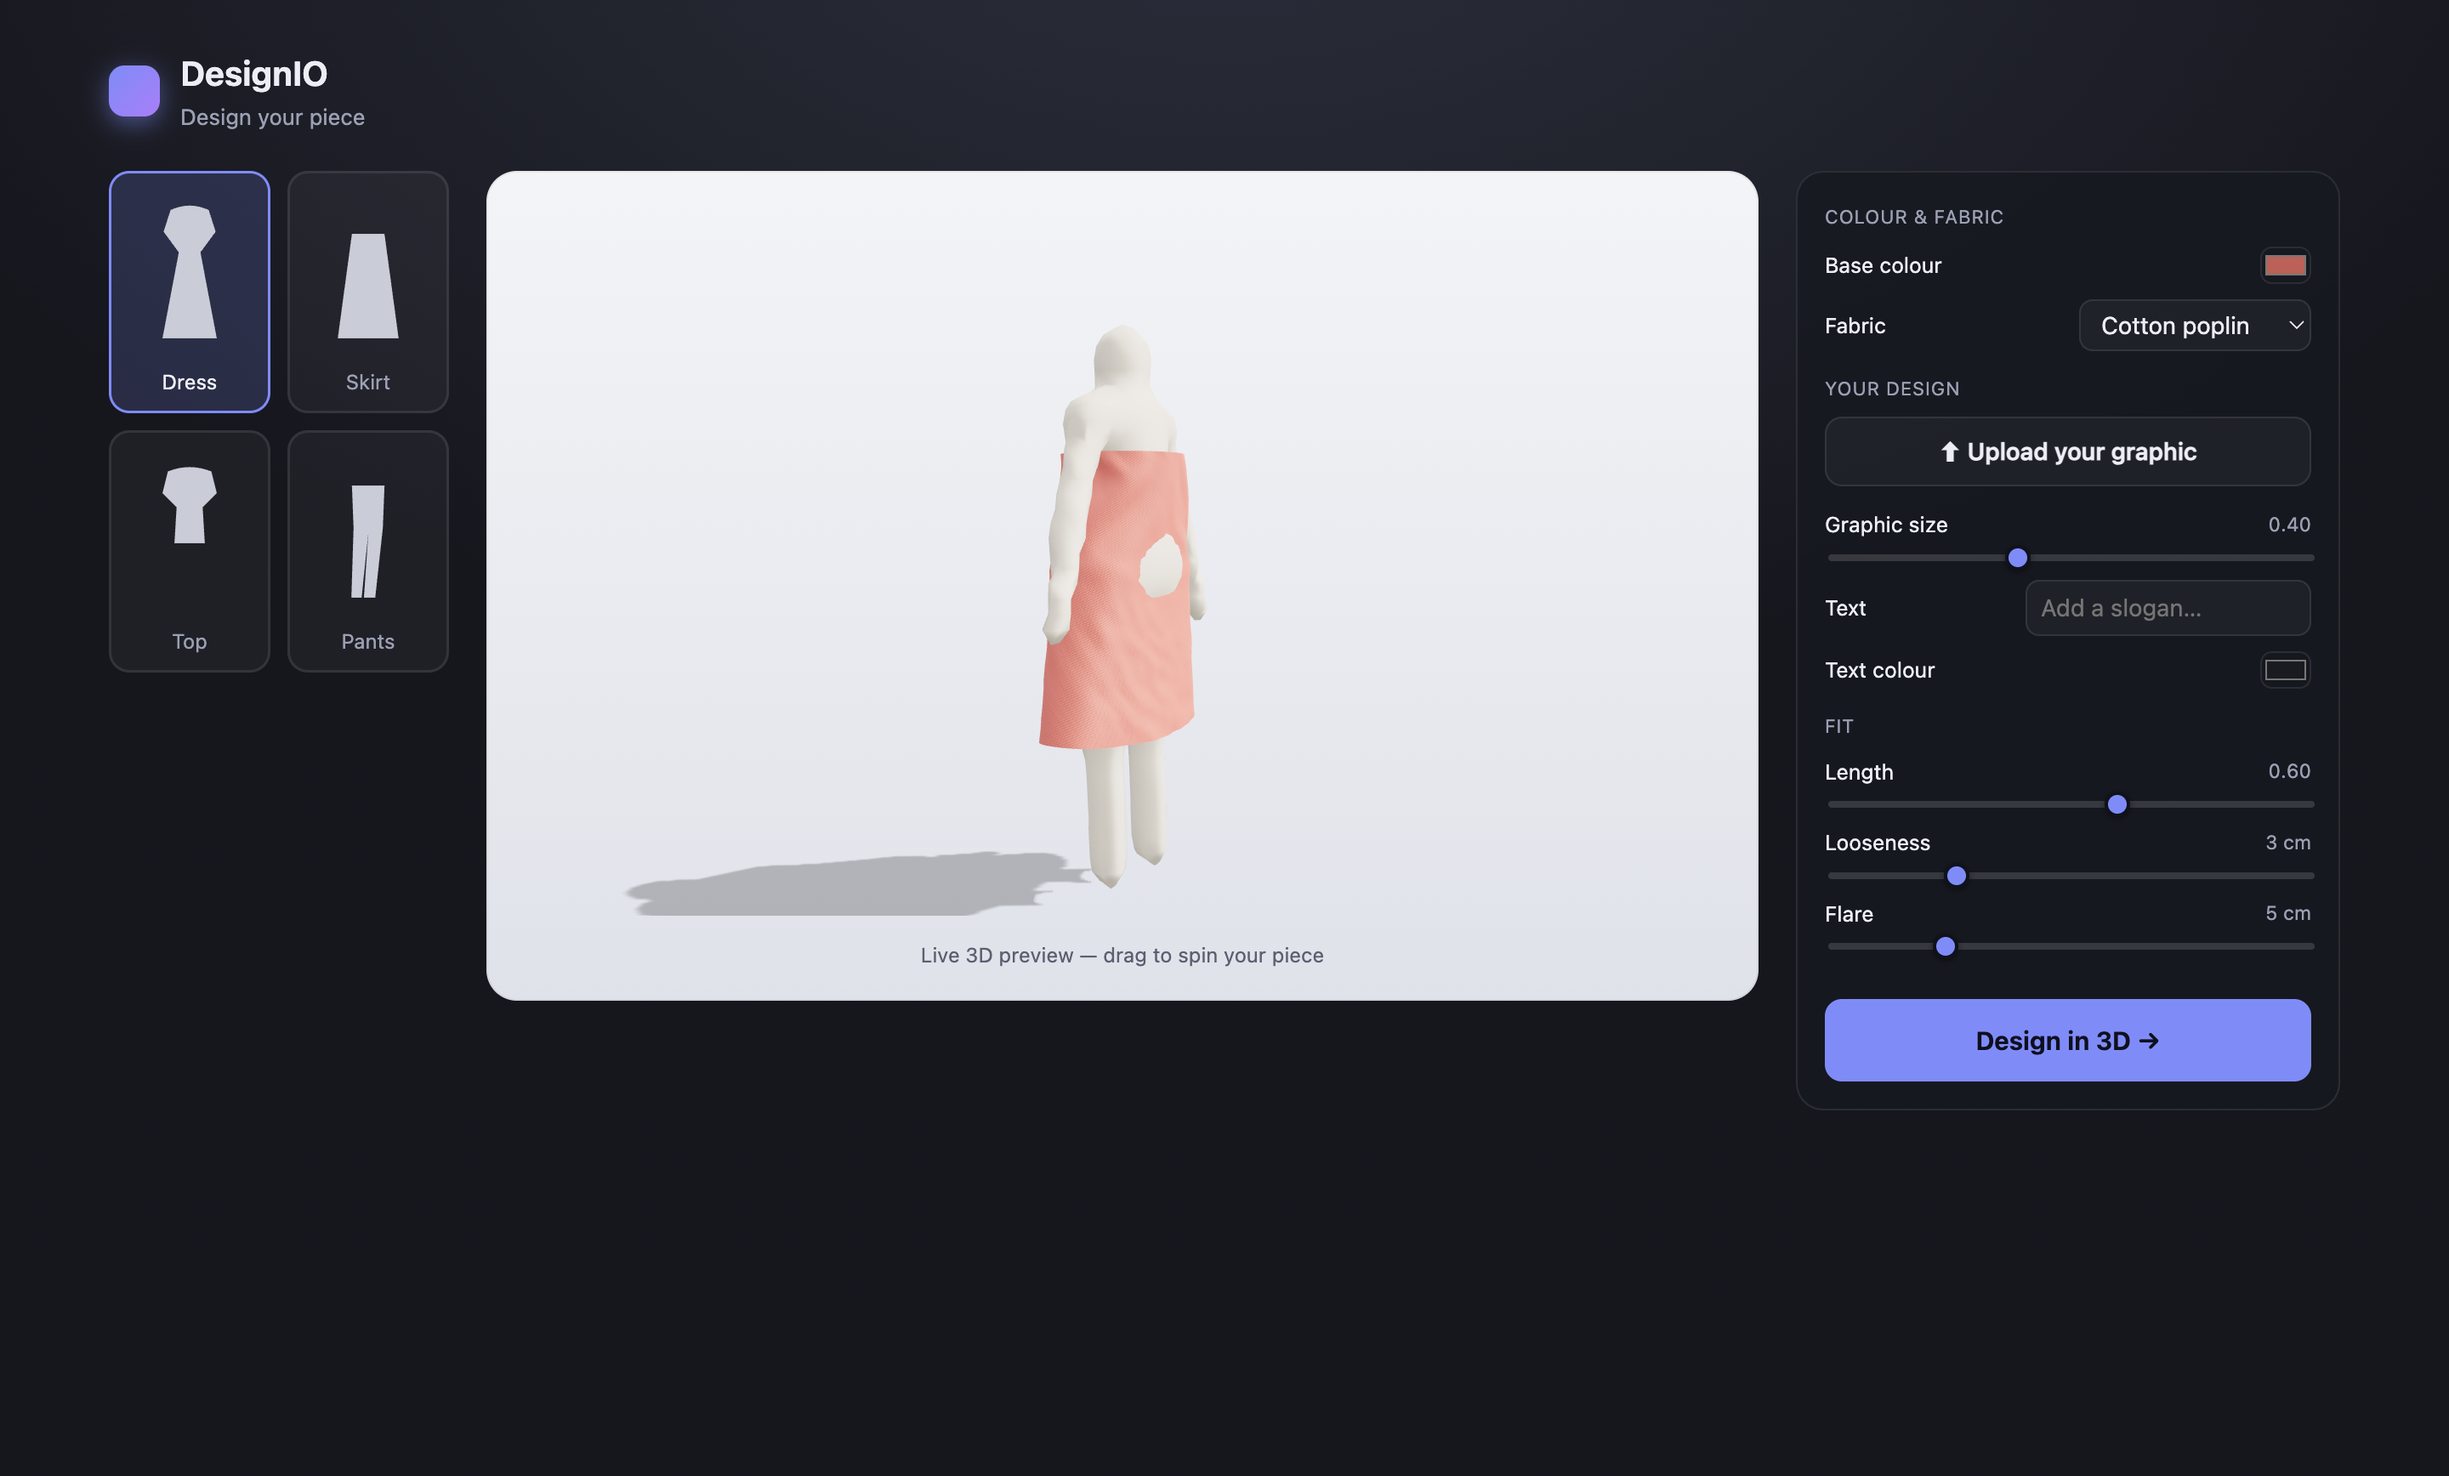
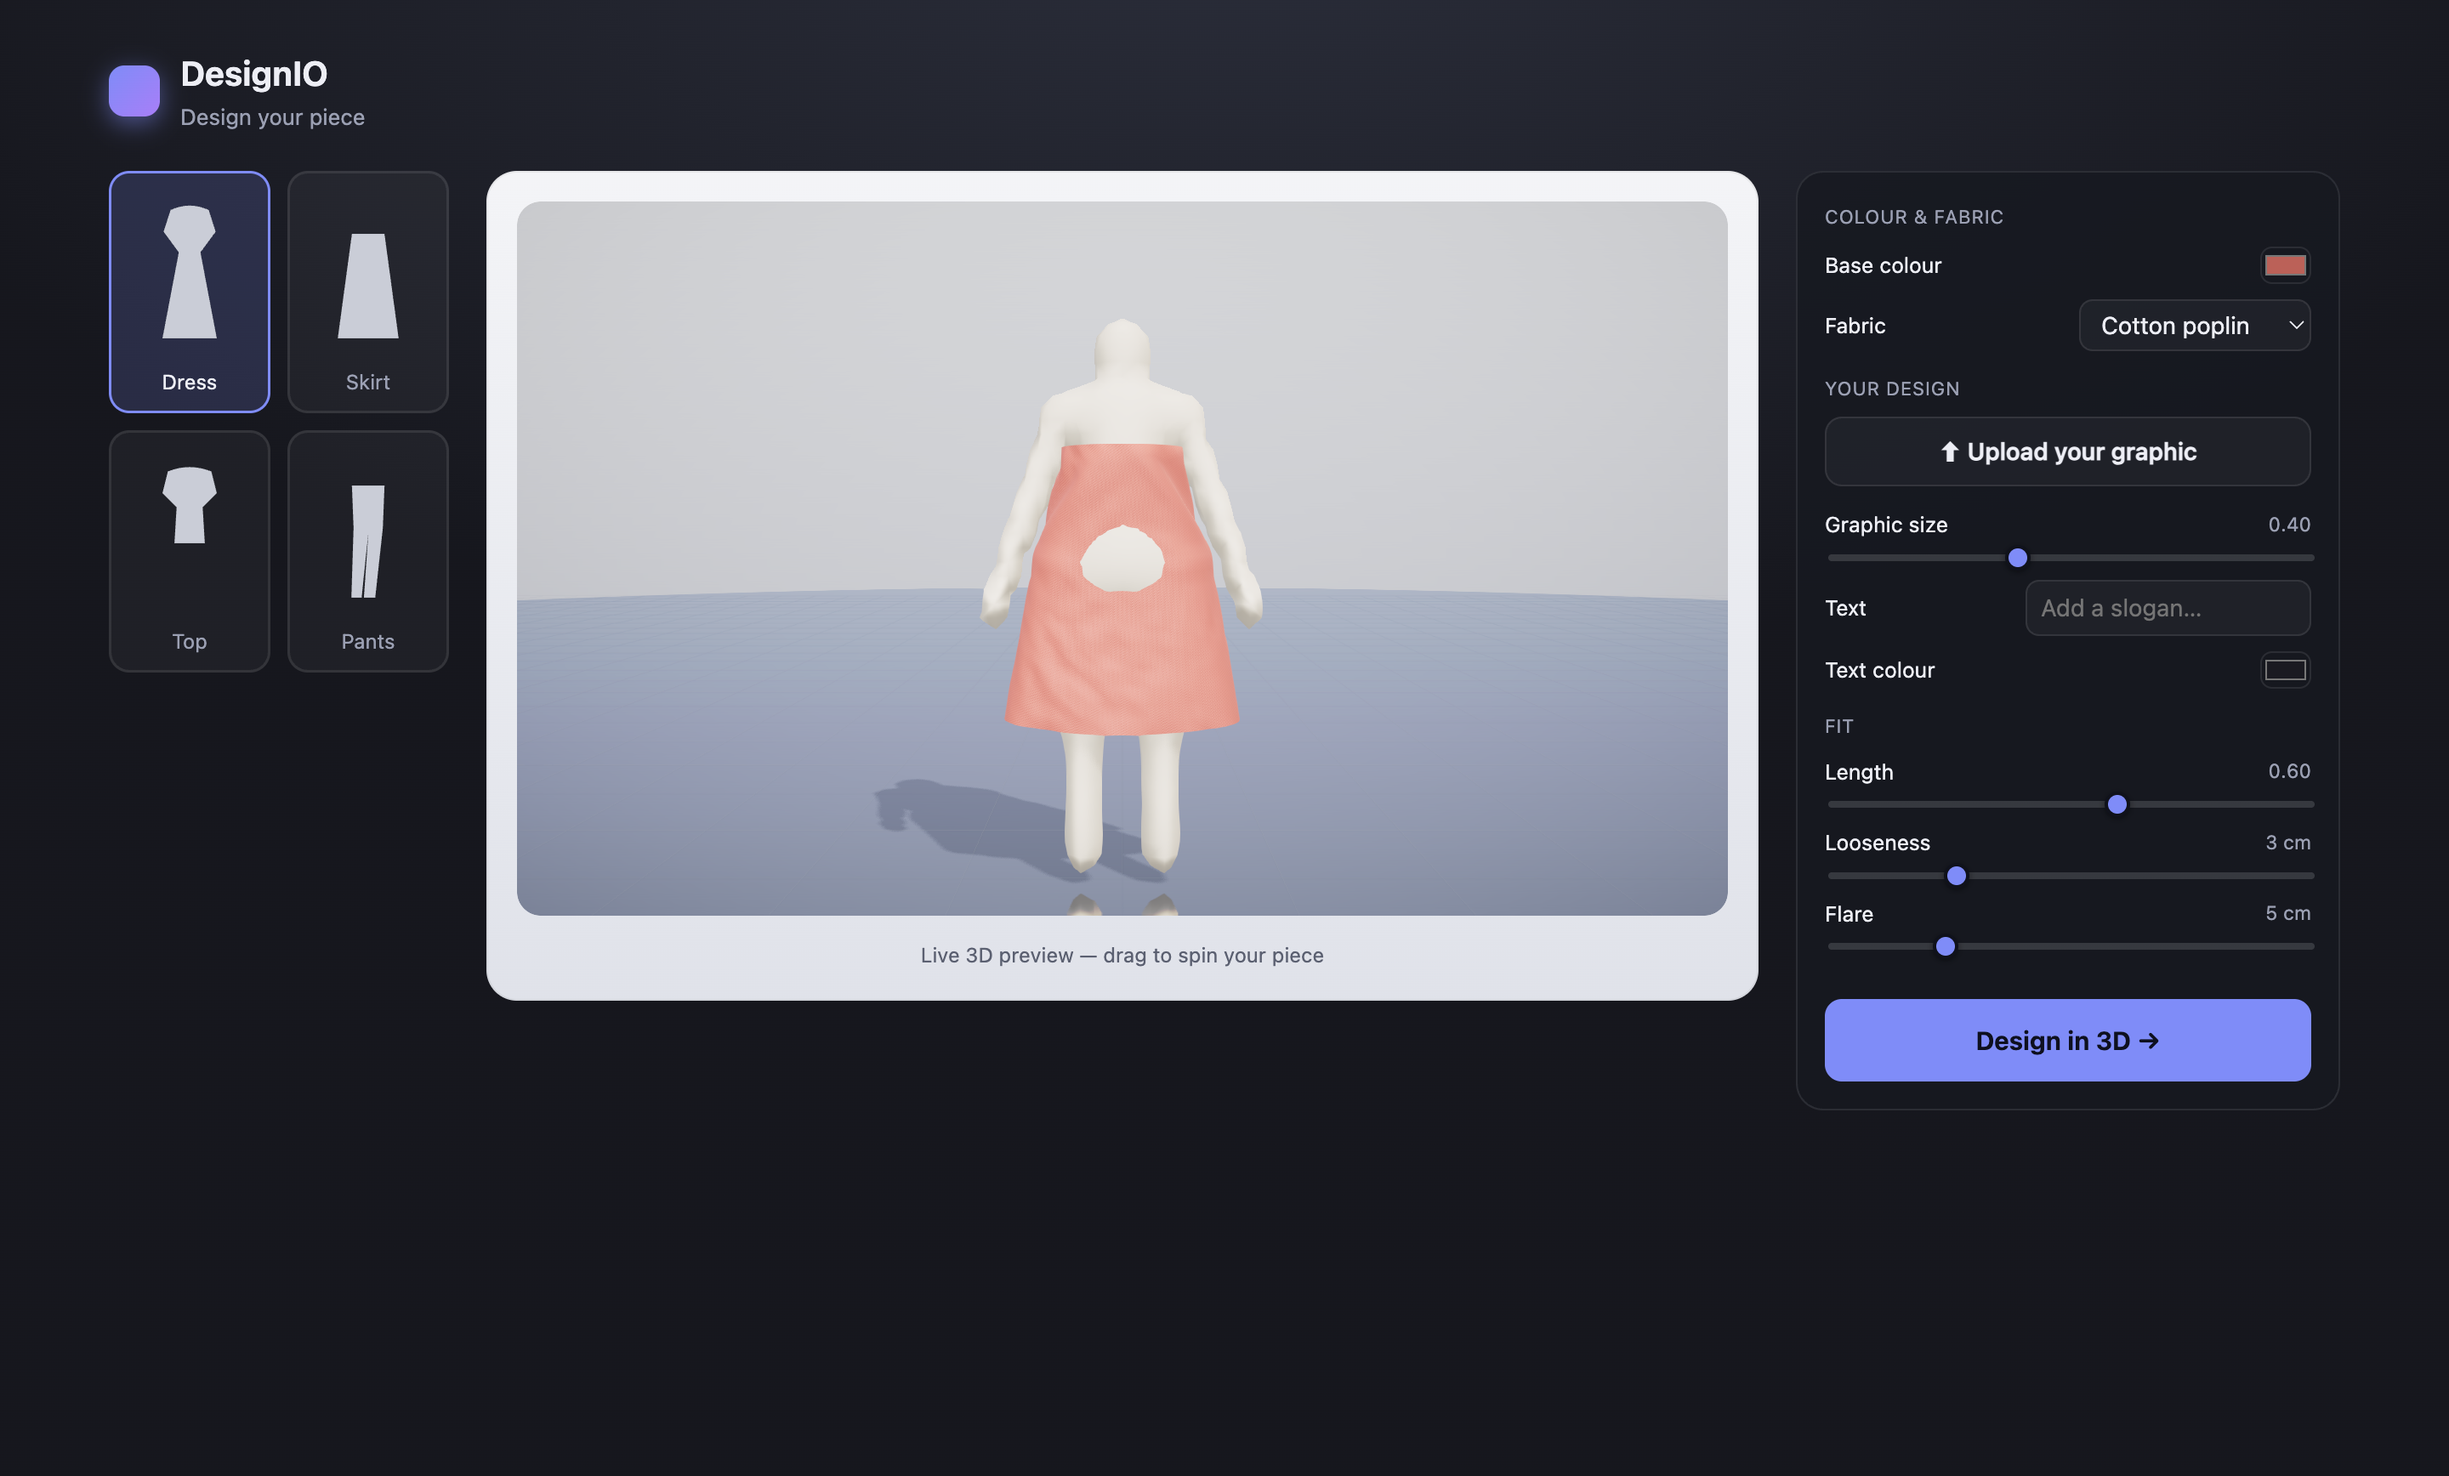
Homepage P1–2: photographic preview (studio env + post-processing)
- start/PreviewStudio.ts: reuse core/Environment.setupEnvironment (gradient
  backdrop, IBL, rim rig, reflective floor + grounded shadow-catcher) instead of
  the flat inline lights; ACES tone mapping. Add an EffectComposer
  (RenderPass → bloom → vignette → OutputPass → SMAA). Eased auto-rotate that
  pauses on hover/drag and respects prefers-reduced-motion; onFirstFrame hook;
  pause the loop on blur/visibilitychange.
- core/Loop already reused; cloth/FabricMaterial reused so fabric reads as cloth.
- The preview is now a lit studio render (grounded reflection + contact shadow),
  not a flat white box. (n8ao blanked the composer output, so grounding is via
  the reflective floor + shadow-catcher — matching the studio; AO can revisit.)

Changed region(s): [[0.1875, 0.1244, 0.7188, 0.6221]]

diff --git a/src/renderer/start/PreviewStudio.ts b/src/renderer/start/PreviewStudio.ts
@@ -1,33 +1,57 @@
 import * as THREE from 'three'
 import { OrbitControls } from 'three/examples/jsm/controls/OrbitControls.js'
-import { RoomEnvironment } from 'three/examples/jsm/environments/RoomEnvironment.js'
+import { EffectComposer } from 'three/examples/jsm/postprocessing/EffectComposer.js'
+import { RenderPass } from 'three/examples/jsm/postprocessing/RenderPass.js'
+import { UnrealBloomPass } from 'three/examples/jsm/postprocessing/UnrealBloomPass.js'
+import { OutputPass } from 'three/examples/jsm/postprocessing/OutputPass.js'
+import { SMAAPass } from 'three/examples/jsm/postprocessing/SMAAPass.js'
+import { ShaderPass } from 'three/examples/jsm/postprocessing/ShaderPass.js'
 import { Loop } from '../core/Loop'
+import { setupEnvironment } from '../core/Environment'
 import { buildMannequin } from '../avatar/Mannequin'
 import { GarmentController } from '../garment/GarmentController'
 import { createFabricMaterial, applyFabric } from '../cloth/FabricMaterial'
 import { getFabric, fabricToSolverParams, type Fabric } from '../fabric/FabricLibrary'
 import { buildDesignArt, hasArt, type DesignArt, type DesignConfig } from './design'
 
+const VignetteShader = {
+  uniforms: { tDiffuse: { value: null }, darkness: { value: 0.5 }, offset: { value: 1.1 } },
+  vertexShader: /* glsl */ `varying vec2 vUv; void main(){ vUv = uv; gl_Position = projectionMatrix * modelViewMatrix * vec4(position,1.0); }`,
+  fragmentShader: /* glsl */ `uniform sampler2D tDiffuse; uniform float darkness; uniform float offset; varying vec2 vUv;
+    void main(){ vec4 t = texture2D(tDiffuse, vUv); vec2 uv = (vUv - 0.5) * offset; float v = clamp(1.0 - dot(uv, uv) * darkness, 0.0, 1.0); gl_FragColor = vec4(t.rgb * v, t.a); }`
+}
+
 /**
- * A compact live 3D preview of the piece you're designing: the garment simulated
- * and draped on the mannequin, on an auto-rotating turntable. Updates as the
- * design changes. This makes the design page genuine 3D/4D clothing, not a flat
- * mockup. Disposed when you enter the full studio.
+ * A compact live 3D preview of the piece you're designing — a **photographic
+ * studio render** (reuses the studio environment: IBL, rim rig, reflective floor,
+ * grounded contact shadow, plus AO / bloom / SMAA / vignette). The garment is
+ * simulated and draped on the mannequin, on an eased auto-rotate turntable.
  */
 export class PreviewStudio {
   private readonly renderer: THREE.WebGLRenderer
   private readonly scene = new THREE.Scene()
   private readonly camera: THREE.PerspectiveCamera
   private readonly controls: OrbitControls
+  private readonly composer: EffectComposer
+  private readonly bloom: UnrealBloomPass
   private readonly material: THREE.MeshPhysicalMaterial
   private readonly ctl: GarmentController
   private readonly loop: Loop
+  private readonly env: { dispose: () => void }
   private readonly mannequin = buildMannequin()
   private current: Fabric = { ...getFabric('cotton-poplin') }
   private design: DesignArt | null = null
 
-  constructor(private readonly container: HTMLElement) {
-    this.renderer = new THREE.WebGLRenderer({ antialias: true, alpha: true })
+  private readonly reducedMotion = window.matchMedia('(prefers-reduced-motion: reduce)').matches
+  private paused = false
+  private firstFrame = true
+  private resumeTimer = 0
+
+  constructor(
+    private readonly container: HTMLElement,
+    private readonly onFirstFrame?: () => void
+  ) {
+    this.renderer = new THREE.WebGLRenderer({ antialias: true, powerPreference: 'high-performance' })
     this.renderer.setPixelRatio(Math.min(window.devicePixelRatio, 2))
     this.renderer.shadowMap.enabled = true
     this.renderer.shadowMap.type = THREE.PCFSoftShadowMap
@@ -35,43 +59,21 @@ export class PreviewStudio {
     this.renderer.toneMappingExposure = 1.05
     container.appendChild(this.renderer.domElement)
 
-    const pmrem = new THREE.PMREMGenerator(this.renderer)
-    this.scene.environment = pmrem.fromScene(new RoomEnvironment(), 0.04).texture
+    this.env = setupEnvironment(this.scene, this.renderer)
 
     this.camera = new THREE.PerspectiveCamera(38, 1, 0.05, 100)
-    this.camera.position.set(0, 1.15, 3.2)
+    this.camera.position.set(0, 1.12, 3.2)
     this.controls = new OrbitControls(this.camera, this.renderer.domElement)
     this.controls.enableDamping = true
     this.controls.enablePan = false
     this.controls.minDistance = 1.6
     this.controls.maxDistance = 5
-    this.controls.target.set(0, 1.02, 0)
-    this.controls.autoRotate = true
-    this.controls.autoRotateSpeed = 1.6
+    this.controls.target.set(0, 1.0, 0)
+    this.controls.autoRotate = !this.reducedMotion
+    this.controls.autoRotateSpeed = 2.2 // ~1 rev / 24 s
     this.controls.update()
 
-    const hemi = new THREE.HemisphereLight(0xffffff, 0x8890a0, 0.85)
-    this.scene.add(hemi)
-    const key = new THREE.DirectionalLight(0xfff6ec, 2.2)
-    key.position.set(2.5, 5, 3.5)
-    key.castShadow = true
-    key.shadow.mapSize.set(1024, 1024)
-    key.shadow.bias = -0.0005
-    this.scene.add(key)
-    const rim = new THREE.DirectionalLight(0x9cc0ff, 0.5)
-    rim.position.set(-3, 2, -3)
-    this.scene.add(rim)
-
-    const floor = new THREE.Mesh(
-      new THREE.CircleGeometry(8, 64),
-      new THREE.ShadowMaterial({ opacity: 0.22 })
-    )
-    floor.rotation.x = -Math.PI / 2
-    floor.receiveShadow = true
-    this.scene.add(floor)
-
     this.scene.add(this.mannequin.group)
-
     this.material = createFabricMaterial(this.current)
     this.ctl = new GarmentController(
       this.scene,
@@ -81,15 +83,39 @@ export class PreviewStudio {
       () => fabricToSolverParams(this.current)
     )
 
+    // ---- post-processing (studio-proven chain; grounding comes from the
+    // reflective floor + shadow-catcher in setupEnvironment) ----
+    this.composer = new EffectComposer(this.renderer)
+    this.composer.addPass(new RenderPass(this.scene, this.camera))
+    this.bloom = new UnrealBloomPass(new THREE.Vector2(1, 1), 0.14, 0.5, 1.9)
+    this.composer.addPass(this.bloom)
+    this.composer.addPass(new ShaderPass(VignetteShader))
+    this.composer.addPass(new OutputPass())
+    this.composer.addPass(new SMAAPass())
+
+    // pause auto-rotate on interaction; pause the whole loop when hidden
+    const dom = this.renderer.domElement
+    dom.addEventListener('pointerenter', this.holdRotate)
+    dom.addEventListener('pointerdown', this.holdRotate)
+    dom.addEventListener('pointerleave', this.releaseRotate)
+    dom.addEventListener('pointerup', this.releaseRotate)
+    window.addEventListener('blur', this.onHide)
+    window.addEventListener('focus', this.onShow)
+    document.addEventListener('visibilitychange', this.onVisibility)
     window.addEventListener('resize', this.onResize)
     this.onResize()
 
     this.loop = new Loop(
       (dt) => this.ctl.step(dt),
       () => {
+        if (this.paused) return
         this.ctl.updateMeshes()
         this.controls.update()
-        this.renderer.render(this.scene, this.camera)
+        this.composer.render()
+        if (this.firstFrame) {
+          this.firstFrame = false
+          this.onFirstFrame?.()
+        }
       }
     )
     this.loop.start()
@@ -117,18 +143,51 @@ export class PreviewStudio {
     this.ctl.setFabricPhysics()
   }
 
+  private holdRotate = (): void => {
+    window.clearTimeout(this.resumeTimer)
+    this.controls.autoRotate = false
+  }
+  private releaseRotate = (): void => {
+    if (this.reducedMotion) return
+    window.clearTimeout(this.resumeTimer)
+    this.resumeTimer = window.setTimeout(() => (this.controls.autoRotate = true), 1500)
+  }
+  private onHide = (): void => {
+    this.paused = true
+  }
+  private onShow = (): void => {
+    this.paused = false
+    this.loop.setRunning(true)
+  }
+  private onVisibility = (): void => {
+    this.paused = document.hidden
+    if (!document.hidden) this.loop.setRunning(true)
+  }
+
   private onResize = (): void => {
     const w = this.container.clientWidth || 1
     const h = this.container.clientHeight || 1
     this.camera.aspect = w / h
     this.camera.updateProjectionMatrix()
     this.renderer.setSize(w, h)
+    this.composer.setSize(w, h)
+    this.bloom.setSize(w, h)
   }
 
   dispose(): void {
     this.loop.stop()
+    window.clearTimeout(this.resumeTimer)
+    const dom = this.renderer.domElement
+    dom.removeEventListener('pointerenter', this.holdRotate)
+    dom.removeEventListener('pointerdown', this.holdRotate)
+    dom.removeEventListener('pointerleave', this.releaseRotate)
+    dom.removeEventListener('pointerup', this.releaseRotate)
+    window.removeEventListener('blur', this.onHide)
+    window.removeEventListener('focus', this.onShow)
+    document.removeEventListener('visibilitychange', this.onVisibility)
     window.removeEventListener('resize', this.onResize)
+    this.env.dispose()
     this.renderer.dispose()
-    this.renderer.domElement.remove()
+    dom.remove()
   }
 }
